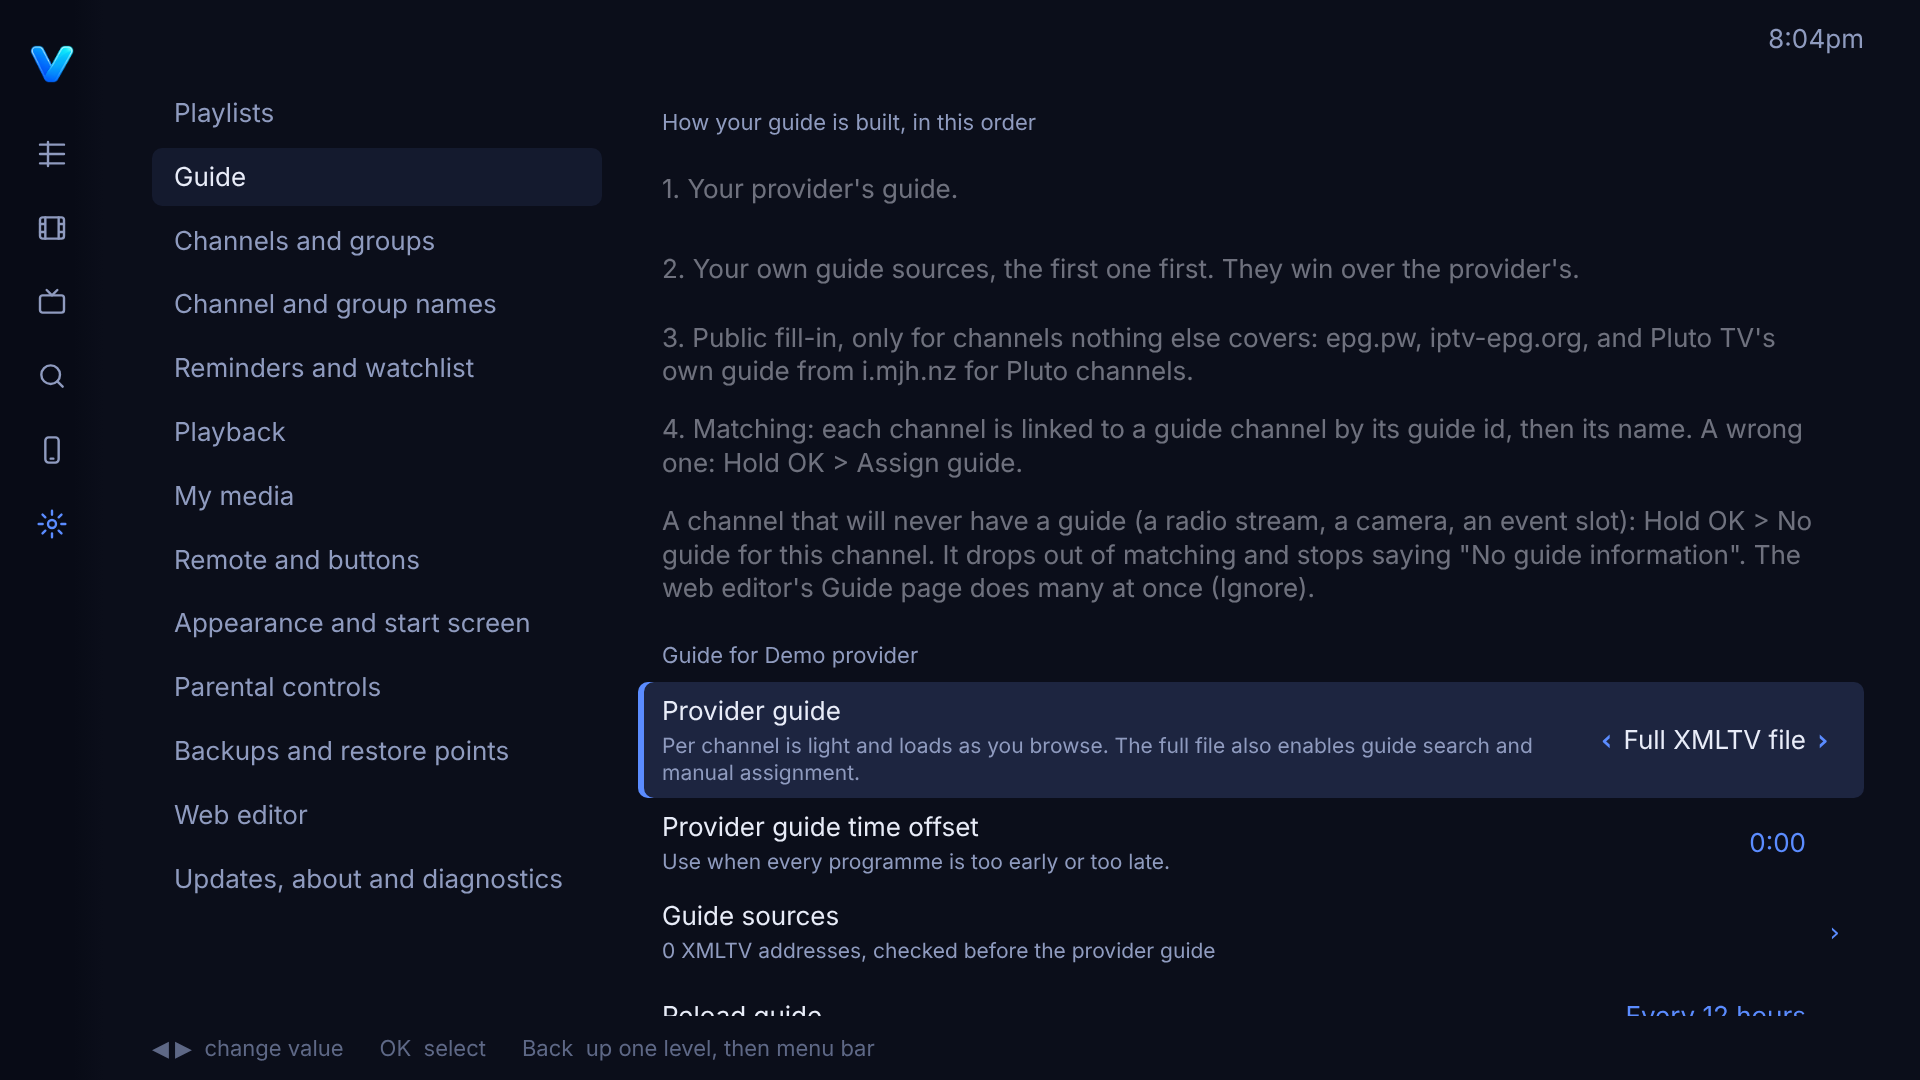
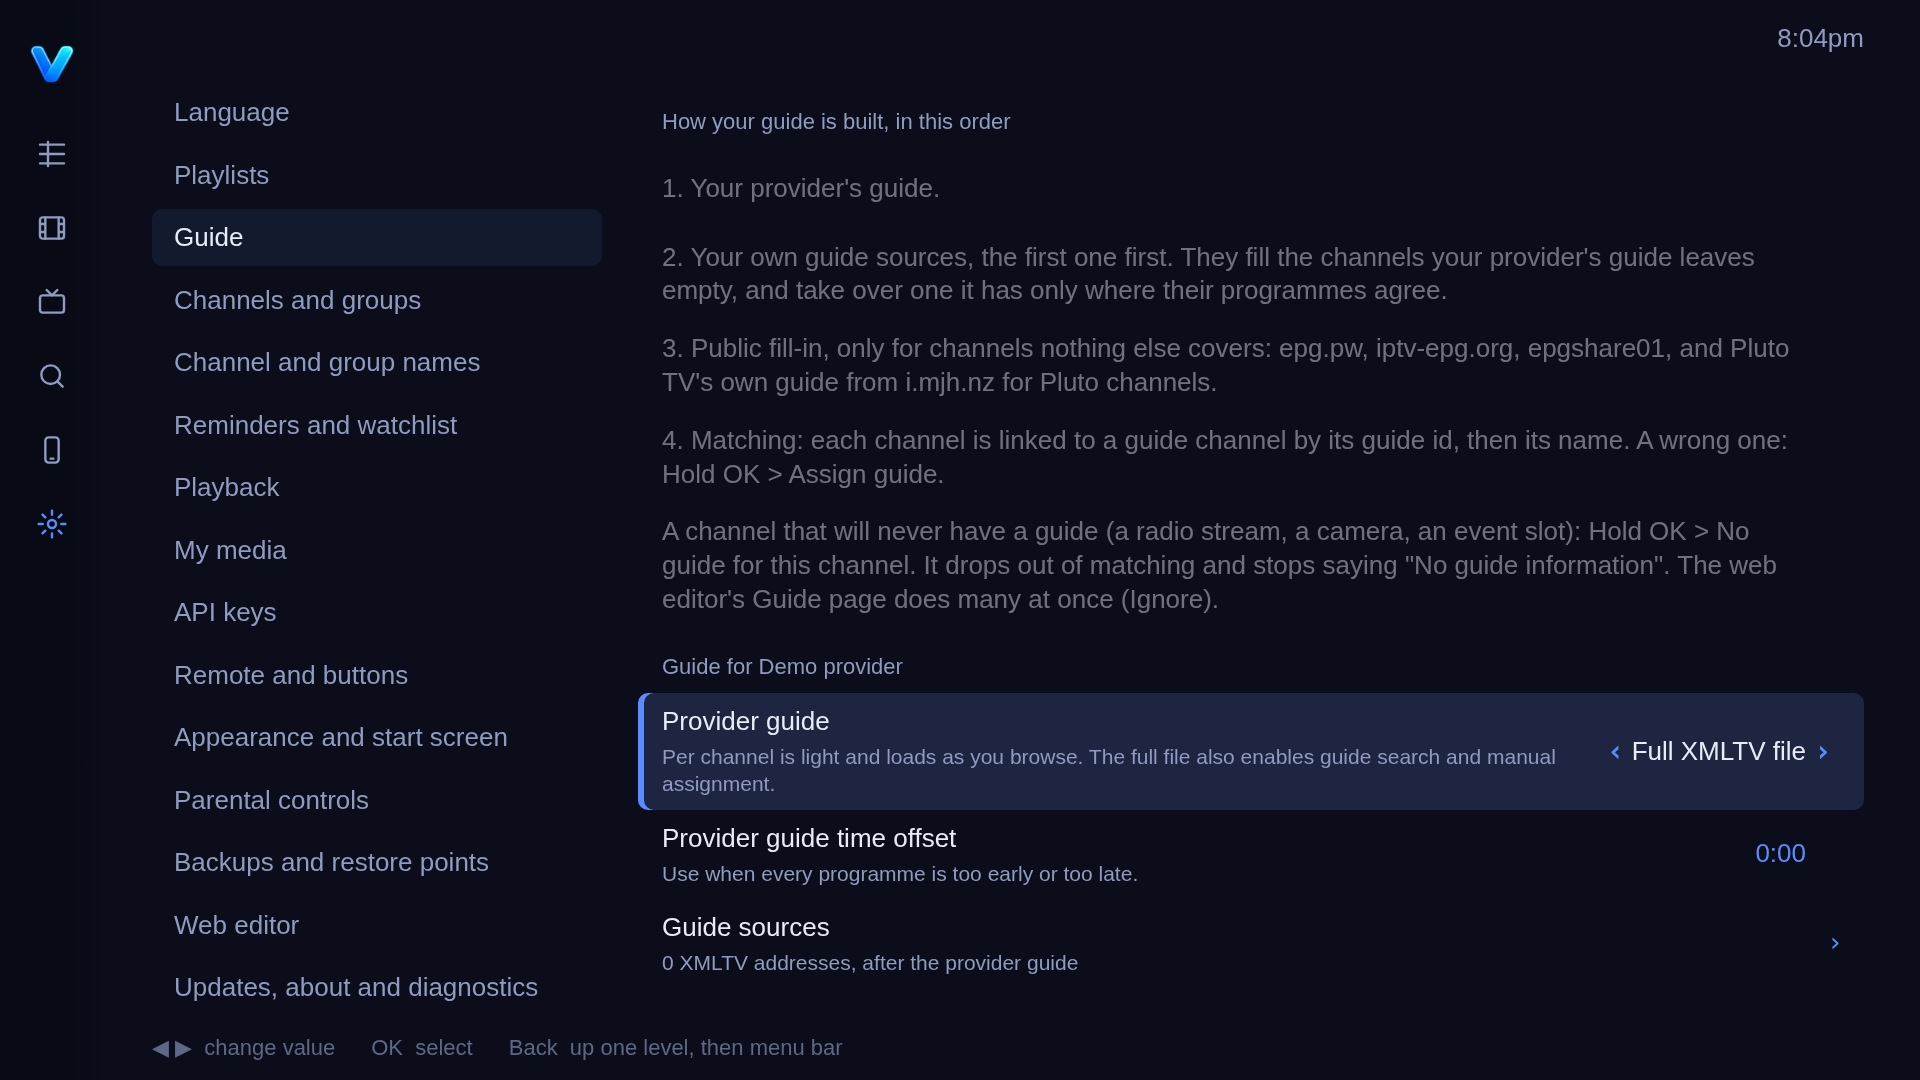
Settings > Guide: say how guide sources and the provider's guide share the work
How your guide is built still said your own sources win over the provider's guide, which alpha 104 changed.  Now: they fill the channels the provider's guide leaves empty, and take over one it has only where their programmes agree.  Spanish and Russian, the user guide and its screenshot match.

diff --git a/app/js/settings.js b/app/js/settings.js
@@ -769,7 +769,7 @@ var Settings = (function () {
     var s = S(), p = Store.playlist, out = [];
     out.push(head('How your guide is built, in this order'));
     out.push(info('1.  Your provider\'s guide.', ''));
-    out.push(info('2.  Your own guide sources, the first one first.  They win over the provider\'s.', ''));
+    out.push(info('2.  Your own guide sources, the first one first.  They fill the channels your provider\'s guide leaves empty, and take over one it has only where their programmes agree.', ''));
     out.push(info('3.  Public fill-in, only for channels nothing else covers: epg.pw, iptv-epg.org, epgshare01, and Pluto TV\'s own guide from i.mjh.nz for Pluto channels.', ''));
     out.push(info('4.  Matching: each channel is linked to a guide channel by its guide id, then its name.  A wrong one: Hold OK > Assign guide.', ''));
     out.push(info('A channel that will never have a guide (a radio stream, a camera, an event slot): Hold OK > No guide for this channel.  It drops out of matching and stops saying "No guide information".  The web editor\'s Guide page does many at once (Ignore).', ''));

diff --git a/app/js/lang/ru.js b/app/js/lang/ru.js
@@ -202,7 +202,7 @@ I18n.add('ru', {
   "14 days": "14 дней",
   "2 days": "2 дня",
   "2 min": "2 мин",
-  "2.  Your own guide sources, the first one first.  They win over the provider's.": "2.  Ваши источники телегида, по порядку.  Они важнее телегида провайдера.",
+  "2.  Your own guide sources, the first one first.  They fill the channels your provider's guide leaves empty, and take over one it has only where their programmes agree.": "2.  Ваши источники телегида, по порядку.  Они заполняют каналы, для которых у провайдера нет телегида, а канал с телегидом провайдера берут, только если их передачи совпадают.",
   "24 hours": "24 часа",
   "3 days": "3 дня",
   "3 hours": "3 часа",

diff --git a/app/js/lang/es.js b/app/js/lang/es.js
@@ -197,7 +197,7 @@ I18n.add('es', {
   "12 hours": "12 horas",
   "14 days": "14 días",
   "2 days": "2 días",
-  "2.  Your own guide sources, the first one first.  They win over the provider's.": "2.  Tus propias fuentes de guía, la primera primero.  Tienen prioridad sobre las del proveedor.",
+  "2.  Your own guide sources, the first one first.  They fill the channels your provider's guide leaves empty, and take over one it has only where their programmes agree.": "2.  Tus propias fuentes de guía, la primera primero.  Completan los canales que la guía de tu proveedor deja vacíos, y solo sustituyen uno que ya tiene cuando sus programas coinciden.",
   "24 hours": "24 horas",
   "3 days": "3 días",
   "3 hours": "3 horas",

diff --git a/CHANGELOG.md b/CHANGELOG.md
@@ -16,6 +16,7 @@ Pre-release: expect rough edges, and keep a backup before installing.
 - **The helper does less work per channel**: HLS segments pass straight through, and live MPEG-TS no longer copies every chunk it realigns.
 - **One reminder per game.**  A team's game listed twice at the same time (the team's own channel and the local station's "Live: NFL Football") set two reminders; now it's one, the listing that names the game.  Reminders already set twice are tidied up.
 - **The phone app opens TiviBro on the TV again for changes, as before alpha 105.**  Keeping TiviBro closed while you changed a setting or a channel from the phone can't work yet: pressing Home leaves TiviBro paused by the TV, and a paused TiviBro can't take the change.  Back for now, until it can be done properly.  And with TiviBro in the background (after Home), the phone now brings it back instead of waiting for ever ("Starting the editor on the TV…").
+- **Settings > Guide says how sources and your provider's guide share the work.**  Its "How your guide is built" list still said your own guide sources win over the provider's, which alpha 104 changed: they fill the channels your provider's guide leaves empty, and take over one it has only where their programmes agree.  The user guide says the same now.
 
 ### In alpha 105
 

diff --git a/docs/USER-GUIDE.md b/docs/USER-GUIDE.md
@@ -717,7 +717,7 @@ Where the programme guide comes from, for the playlist in use, and the movies in
 **How your guide is built.**  The page starts with the order TiviBro builds your guide in:
 
 1. **Your provider's guide.**
-2. **Your own guide sources**, the first one first.  They win over the provider's.
+2. **Your own guide sources**, the first one first.  They fill the channels your provider's guide leaves empty, and take over one it has only where their programmes agree (similar titles at the same times), so a source with more days but the wrong schedule doesn't win.
 3. **Public fill-in**, only for channels nothing else covers: epg.pw, iptv-epg.org, epgshare01, and Pluto TV's own guide from i.mjh.nz for Pluto channels.
 4. **Matching:** each channel is linked to a guide channel by its guide id, then its name.  A wrong one: **Hold OK > Assign guide**.
 
